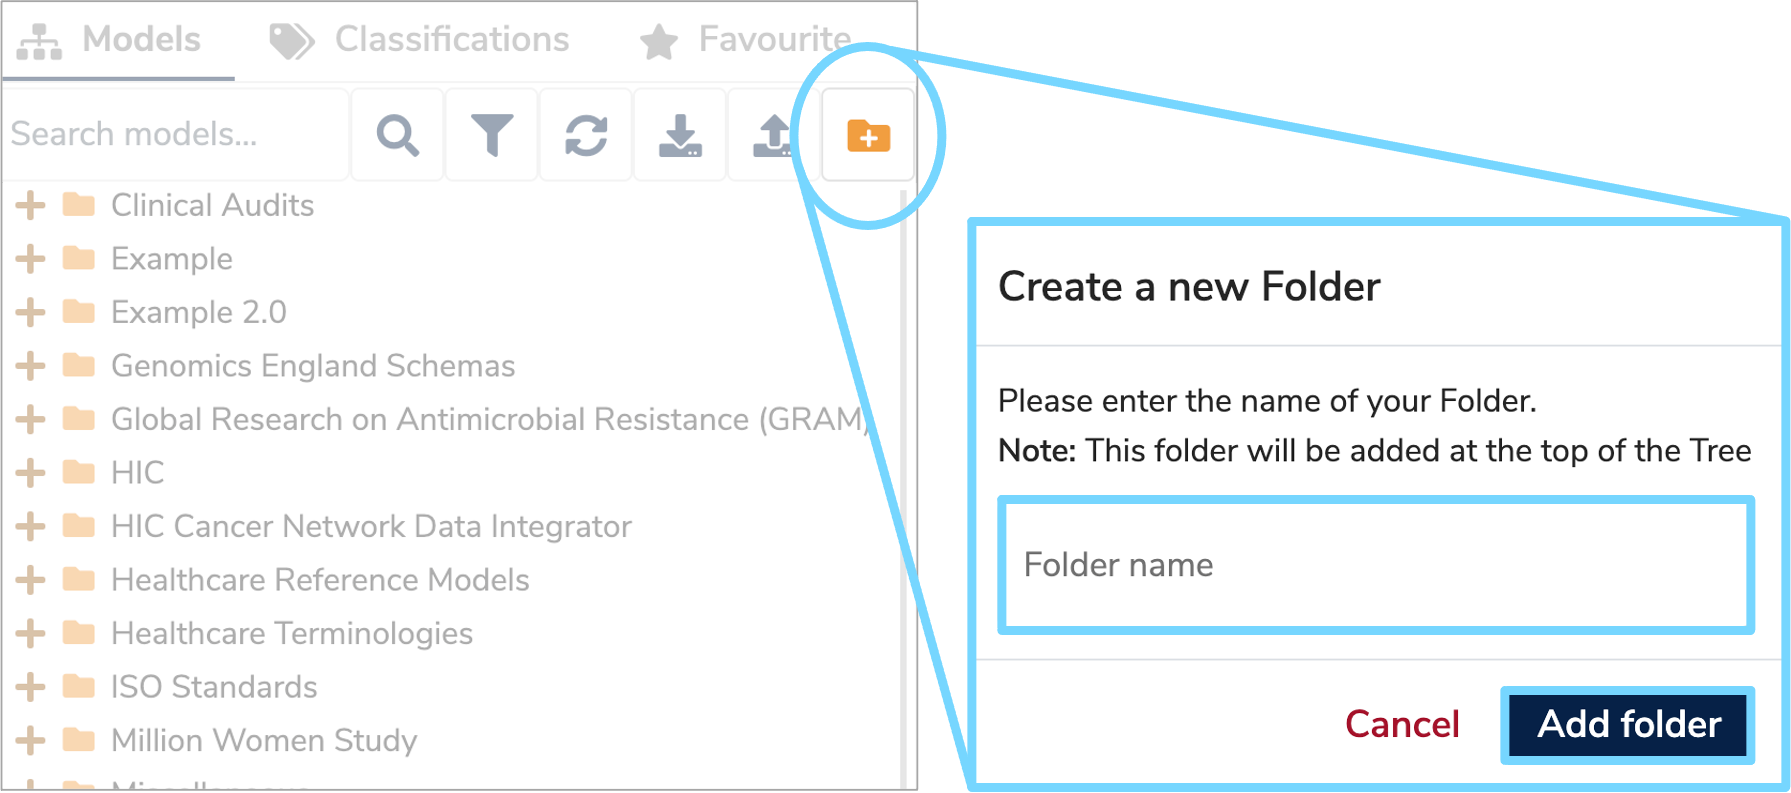
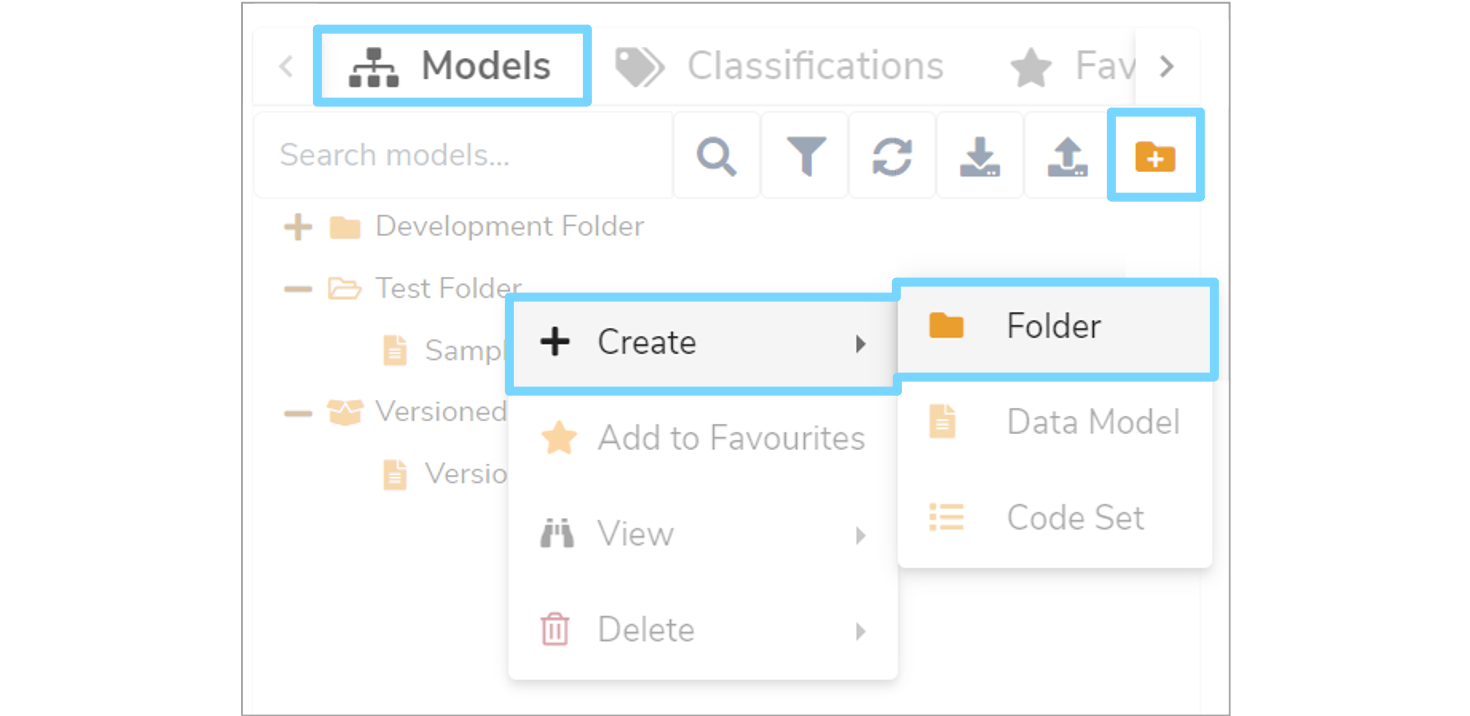
Updated content and screenshots for the Create a new folder section of the Create a Data Model user guide

diff --git a/docs/user-guides/create-a-data-model/create-a-data-model.md b/docs/user-guides/create-a-data-model/create-a-data-model.md
@@ -1,20 +1,18 @@
 This user guide will explain the steps you need to follow to create a new [Data Model](../../glossary/data-model/data-model.md). 
 
 ---
-## 1. Create a new folder
+## <a name="create-a-new-folder"></a>1. Create a new folder
 **Data Models** are stored in their own folders and subfolders which are displayed in the **Model Tree**. Therefore, to create a new **Data Model**, first you need to either create a new folder, or add a subfolder.
 
-To create a new folder click the **'Create a new Folder'** icon at the top right of the  **Model Tree**. Enter a **'Folder name'** and click **'Add folder'**. The new folder should now appear in the **Model Tree**. 
+Ensure the **'Models'** tab is selected above the **Model Tree**. To create a new top-level folder click the **'Create a new Folder'** icon at the top right of the  **Model Tree**. To create a new subfolder, right click on an existing folder and select **'+ Create'** and then **'Folder'** from the dropdown menu.
 
 ![Create a new Folder illustration](create-a-new-folder.png)
 
-To create a new subfolder, right click on the existing folder and select **'Add Folder'**. Enter a **'Folder name'** and click **'Add folder'**. The new subfolder should now appear in the **Model Tree**.
+A **'Create a new Folder'** dialogue box will appear. Enter a name for the folder and tick **'Version control this folder'** if you wish to create a **Versioned Folder**. Once complete, click **'Add folder'** to save your changes.
 
-![Create a new subfolder illustration](create-a-new-subfolder.png) 
+The **'Version control this folder'** option will only appear if adding to the top level of the **Model tree** or under another folder. **Versioned folders** cannot be created under other **Versioned folders**.
 
-To add a short description to the folder, select the folder in the **Model Tree** and its details will then be displayed on the right. Click the **'Edit'** pencil button and enter a description into the box. Once completed, click **'Save changes'** and the description will now display whenever the folder is selected.
-
-![Add folder description illustration](add-folder-description.png)
+![Create a new Folder dialogue box](add-folder-description.png)
 
 ---
 
